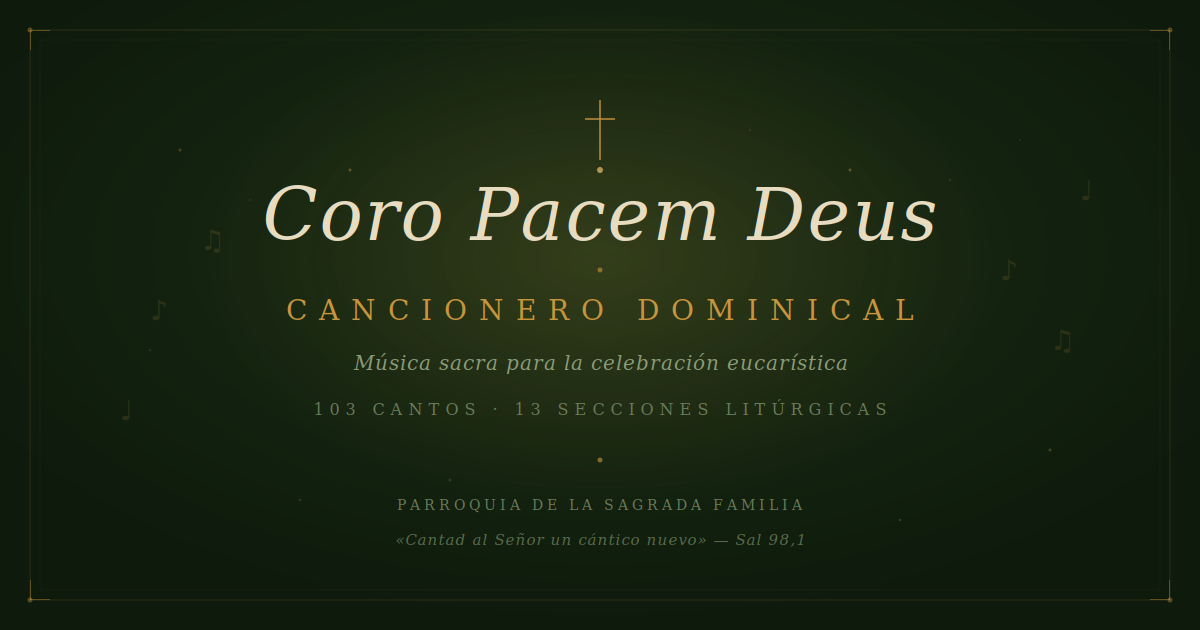
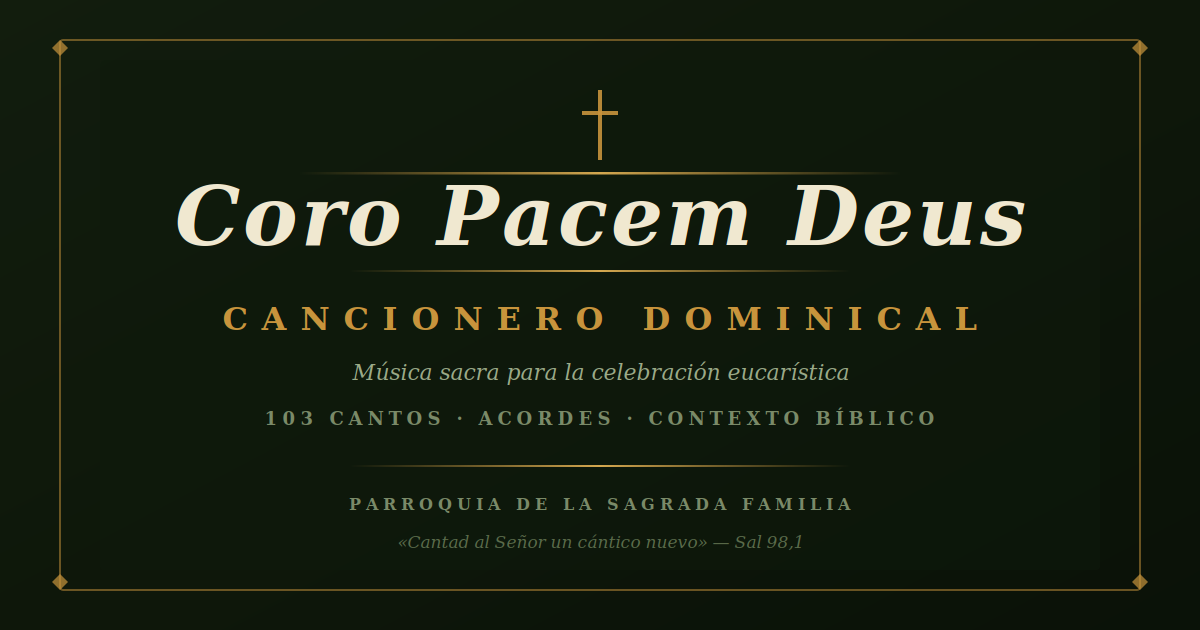
Add files via upload

diff --git a/cancioneros/dominical.html b/cancioneros/dominical.html
@@ -2484,7 +2484,7 @@ body.dev-mode #btn-expand-all { display: inline-block !important; }
 
   <div class="ceremony-cover">
     <div class="ceremony-icon" id="pd-coro-trigger" style="cursor:pointer;"><svg viewBox="0 0 64 64" width="64" height="64" fill="none" stroke="currentColor" stroke-width="1.5" stroke-linecap="round" stroke-linejoin="round"><path d="M32 4L12 24v32h40V24L32 4z"/><line x1="32" y1="4" x2="32" y2="18"/><line x1="26" y1="12" x2="38" y2="12"/><rect x="24" y="38" width="16" height="18" rx="8"/><path d="M12 56h40"/></svg></div>
-    <span class="cancionero-version">v3.2.23r4</span>
+    <span class="cancionero-version">v3.2.23r5</span>
     <p class="ceremony-eyebrow" style="font-family:'Edwardian Script ITC','Pinyon Script',cursive; font-size:clamp(1.8rem, 5vw, 3rem); letter-spacing:0.05em; text-transform:none; opacity:0.85;">Coro Pacem Deus</p>
     <h2 class="ceremony-title">Cancionero Dominical</h2>
     <p class="ceremony-date">Parroquia de la Sagrada Familia</p>